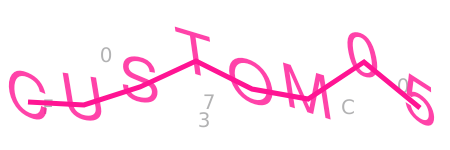
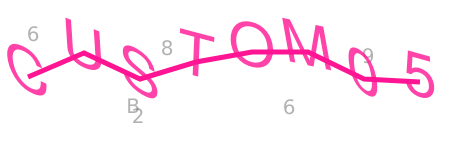
submit build

diff --git a/dist/util.js b/dist/util.js
@@ -88,7 +88,7 @@ function getRandomCoordinate(height, width, size) {
         const coordinate = [];
         const randomWidth = widthGap * (i + 0.5);
         coordinate.push(randomWidth);
-        const randomHeight = getRandom(30, height - 30);
+        const randomHeight = getRandom(50, height - 50);
         coordinate.push(randomHeight);
         coordinates.push(coordinate);
     }
